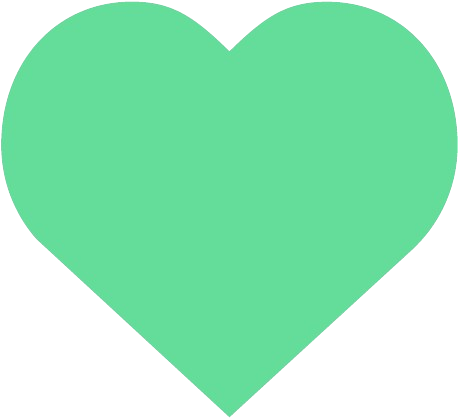
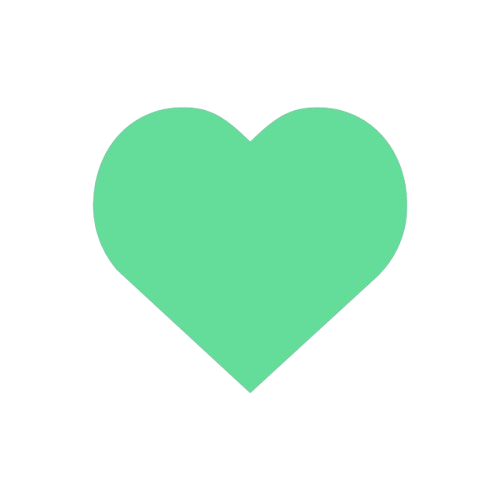
Ajout des icones fonctionnels pour le swipe

diff --git a/src/app/pages/swipe/swipe.component.ts b/src/app/pages/swipe/swipe.component.ts
@@ -31,6 +31,7 @@ interface Card {
 })
 export class SwipeComponent {
 
+
   parsingCards(results: any[]): Card[] {
     return results.map(item => ({
       title: item.node.title,
@@ -118,6 +119,21 @@ export class SwipeComponent {
     this.x = 0;
     this.y = 0;
     this.rotation = 0;
+  }
+
+
+  cross() {
+      this.currentIndex++;
+      if (this.currentIndex >= this.cards.length) {
+        this.currentIndex = 0;
+      }
+  }
+
+  heart() {
+      this.currentIndex++;
+      if (this.currentIndex >= this.cards.length) {
+        this.currentIndex = 0;
+      }
   }
 
   onClick() {

diff --git a/src/app/pages/swipe/swipe.component.scss b/src/app/pages/swipe/swipe.component.scss
@@ -119,3 +119,41 @@
 .nav span.active {
   color: white;
 }
+
+
+
+
+.cross {
+  height: 100%;
+  width: fit-content;
+  border-radius: 50%;
+  border: 2px solid #ff6f56;
+  position: relative;
+  
+}
+
+.heart {
+  height: 100%;
+  width: fit-content;
+  border-radius: 50%;
+  border: 2px solid rgb(116, 255, 157);
+  position: relative;
+  
+}
+
+.icon_container{
+  position: absolute;
+  display: flex;
+  bottom: 0;
+  left: 0;
+  right: 0;
+  justify-content: center;
+  align-items: center;
+  padding: 20px;
+  gap: 20%;
+
+  height: 10%;
+}
+
+
+

diff --git a/src/app/pages/swipe/swipe.component.html b/src/app/pages/swipe/swipe.component.html
@@ -23,8 +23,14 @@
       </div>
 
       <div class="desc">{{ cards[currentIndex].desc }}</div>
-      
+
     </div>
   </div>
-
+  <div class="icon_container">
+    <img src='assets/img/cross.png' class="cross" (click)="cross()"/> 
+    <img src='assets/img/heart.png' class="heart" (click)="heart()"/> 
+  </div>
 </div>
+
+
+      
